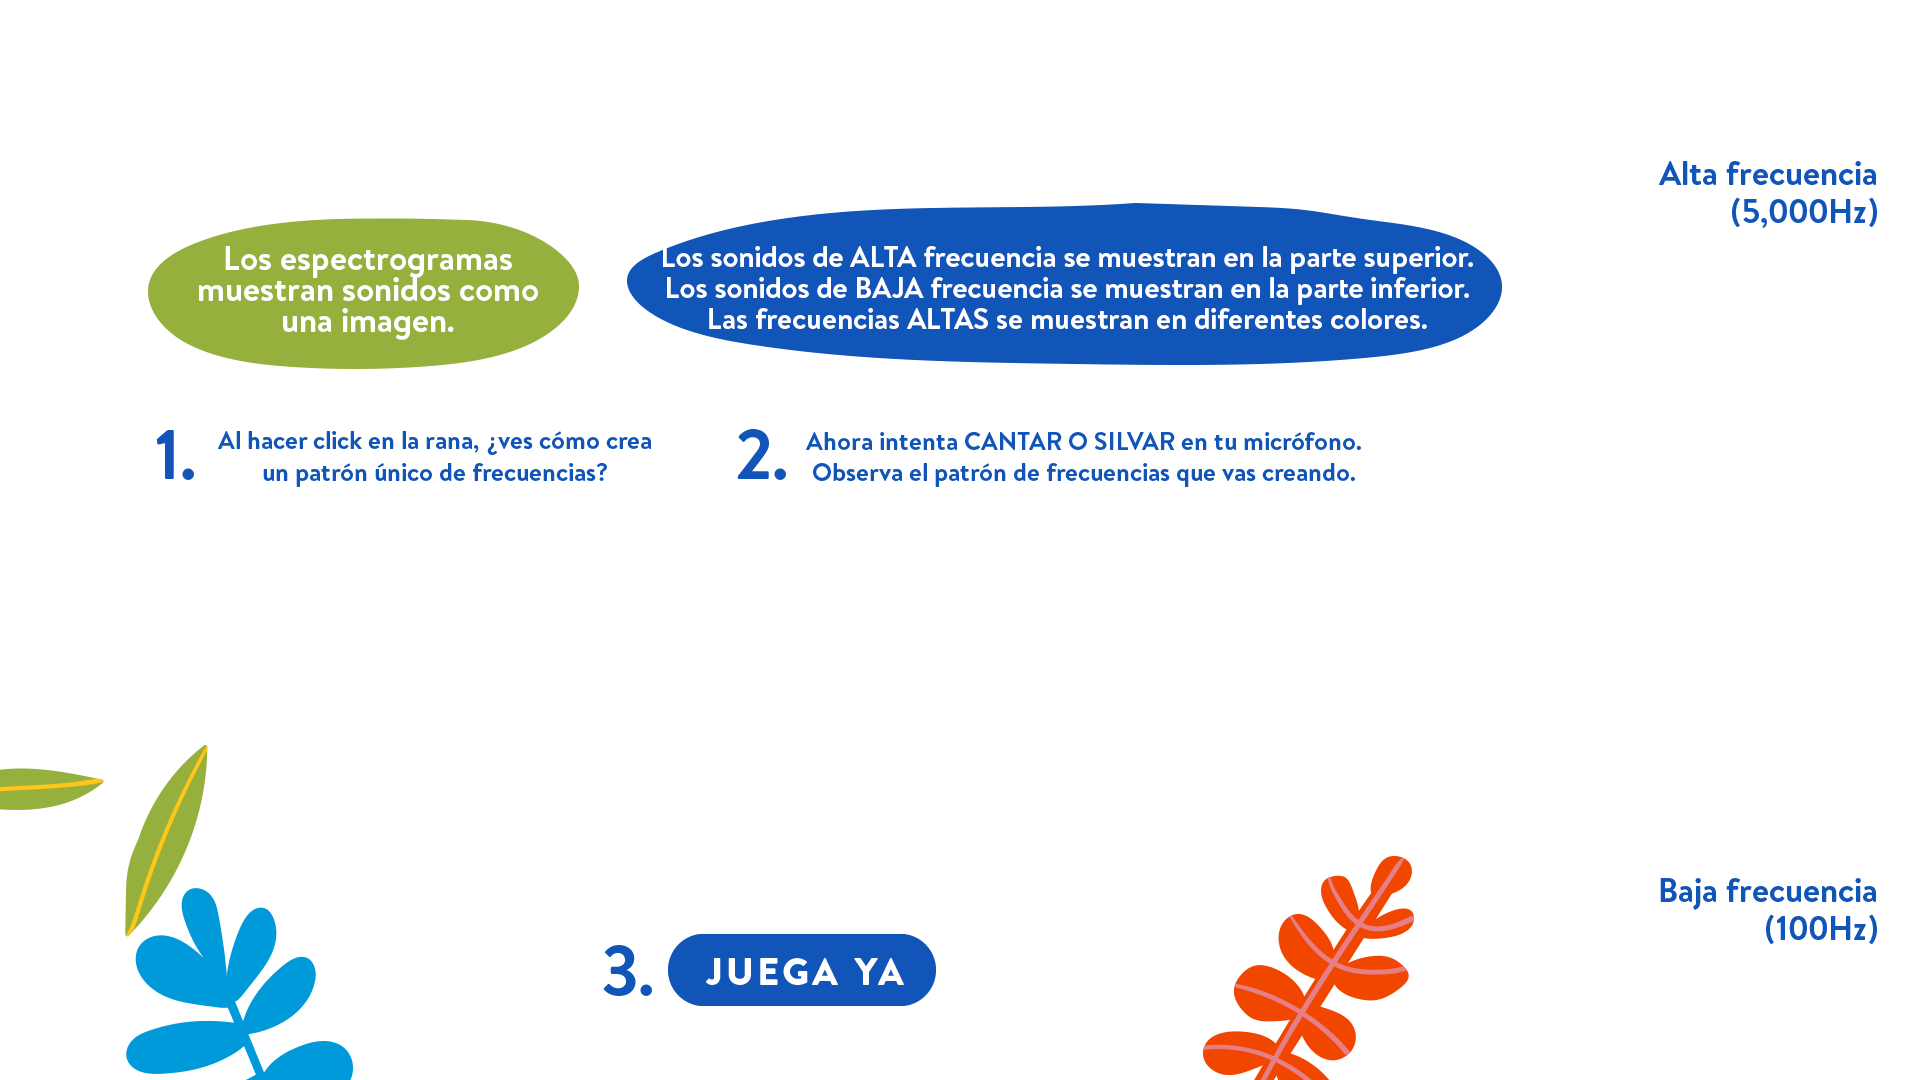
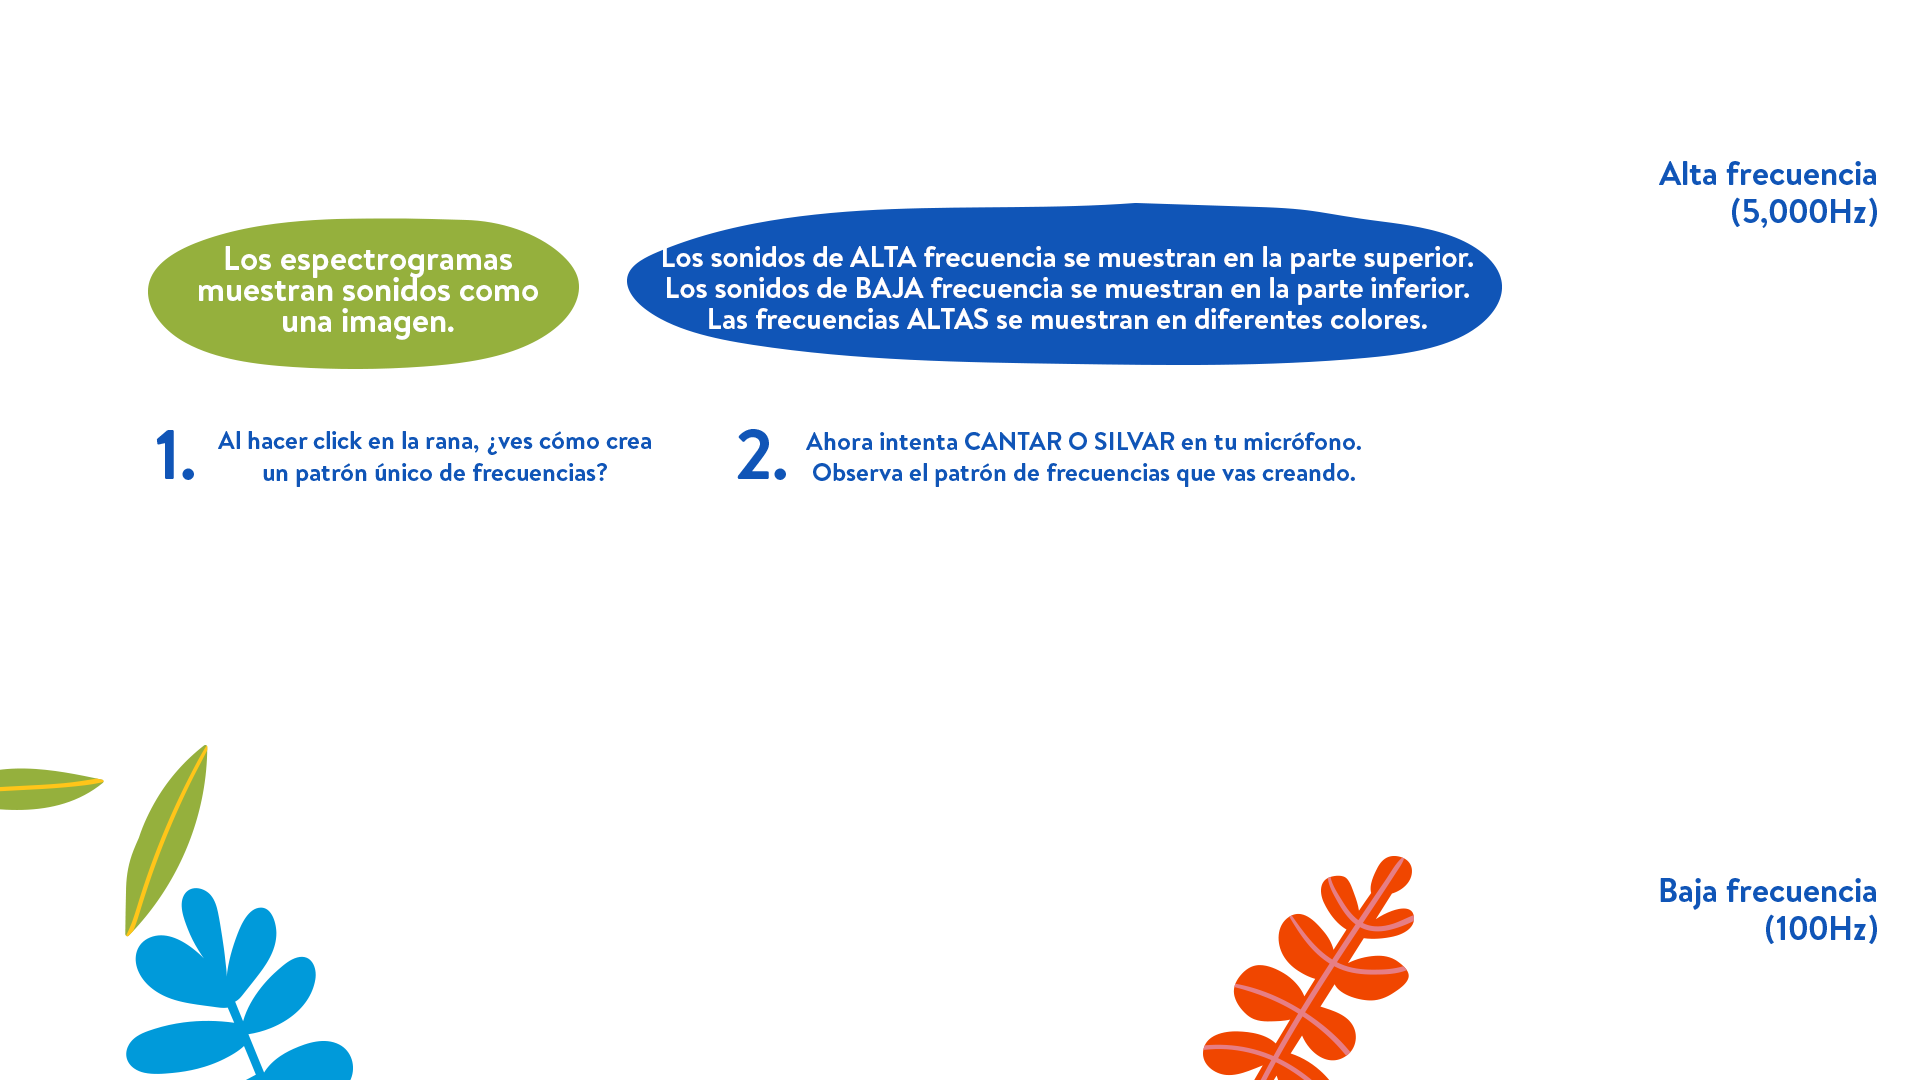
updated jeuga ya button

Changed region(s): [[0.3125, 0.8556, 0.5, 0.9472]]

diff --git a/drawIntroState.js b/drawIntroState.js
@@ -45,12 +45,18 @@ function drawIntro() {
 		strokeWeight(3);
 		colorMode(HSB);
 		soundcolor = color(fft.getEnergy(100, 3000), 30 + fft.getEnergy(100, 3000), 200, .5);
-		if (mouseX > bbox.x - 20 && mouseY > bbox.y && mouseX < bbox.x - 20 + bbox.w + 30 && mouseY < bbox.y + bbox.h + 20) {
+		
+		//Juega Ya Button
+		if (mouseX > bbox.x - 20 && mouseY > height*5/6 && mouseX < bbox.x - 20 + bbox.w + 30 && mouseY < height*7/8) {
 			fill(100, 100);
 			strokeWeight(8);
 		} else {
 			fill(soundcolor);
 		}
+		tint(0,240, 0,100); // Tint blue and set transparency
+	//	image(tunfrogimg, width / 2 - tunwidth/2, height / 2 - tunheight/2, tunwidth, tunheight);
+	image(infojuegaYabutton, 0, 0, width, height);
+		
 		//rect(bbox.x - 20, bbox.y, bbox.w + 30, bbox.h + 20, rectCorners);
 		//	fill(100,200,255,150);
 		//							soundcolor = color( fft.getEnergy(100, 3000), 30 + fft.getEnergy(100, 3000), 200,.5);
@@ -86,7 +92,7 @@ let tunwidth=300*width/1920;
 	//image(tunfrogimg, width / 2 - tunwidth/2, height / 2 - tunheight/2, tunwidth, tunheight);
 	image(infoFrog, 0, 0, width, height);
 
-	if (mouseX > width / 2 - tunwidth/2 && mouseY > height / 2 - tunheight/2 && mouseX < width / 2 - tunwidth/2 +tunwidth && mouseY < height / 2 - tunheight/2+tunwidth) {
+	if (mouseX > width / 4 && mouseY > height / 2 && mouseX < width / 2 && mouseY < height / 2 - tunheight/2+tunwidth) {
 		push();
 		tint(0,240, 0,100); // Tint blue and set transparency
 	//	image(tunfrogimg, width / 2 - tunwidth/2, height / 2 - tunheight/2, tunwidth, tunheight);

diff --git a/preload.js b/preload.js
@@ -2,6 +2,8 @@ let infoFrog;
 
 let infoBlue;
 
+let infojuegaYabutton;
+
 //Preload all files
 function preload() {
 
@@ -20,6 +22,8 @@ function preload() {
 	infoFrog = loadImage("UIimg/frog_button_Espectrograma-1920x1080.png");
 
 	infoBlue = loadImage("UIimg/blue-zone-50per-Espectrograma-1920x1080.png");
+
+infojuegaYabutton = loadImage("UIimg/juega-ya-button-Espectrograma-1920x1080_info2.png");
 
 	//tunfrogimg = loadImage("animals/tunfrog.png");
 

diff --git a/mouseFunctions.js b/mouseFunctions.js
@@ -107,7 +107,7 @@
 
 		let tunwidth=300*width/1920;
 	let tunheight=170*width/1920;
-	if (mouseX > width / 2 - tunwidth/2 && mouseY > height / 2 - tunheight/2 && mouseX < width / 2 - tunwidth/2 +tunwidth && mouseY < height / 2 - tunheight/2+tunwidth) {
+	if (mouseX > width / 4 && mouseY > height / 2 && mouseX < width / 2 && mouseY < height / 2 - tunheight/2+tunwidth) {
 
 				sound.play();
 					frogclicked=true;
